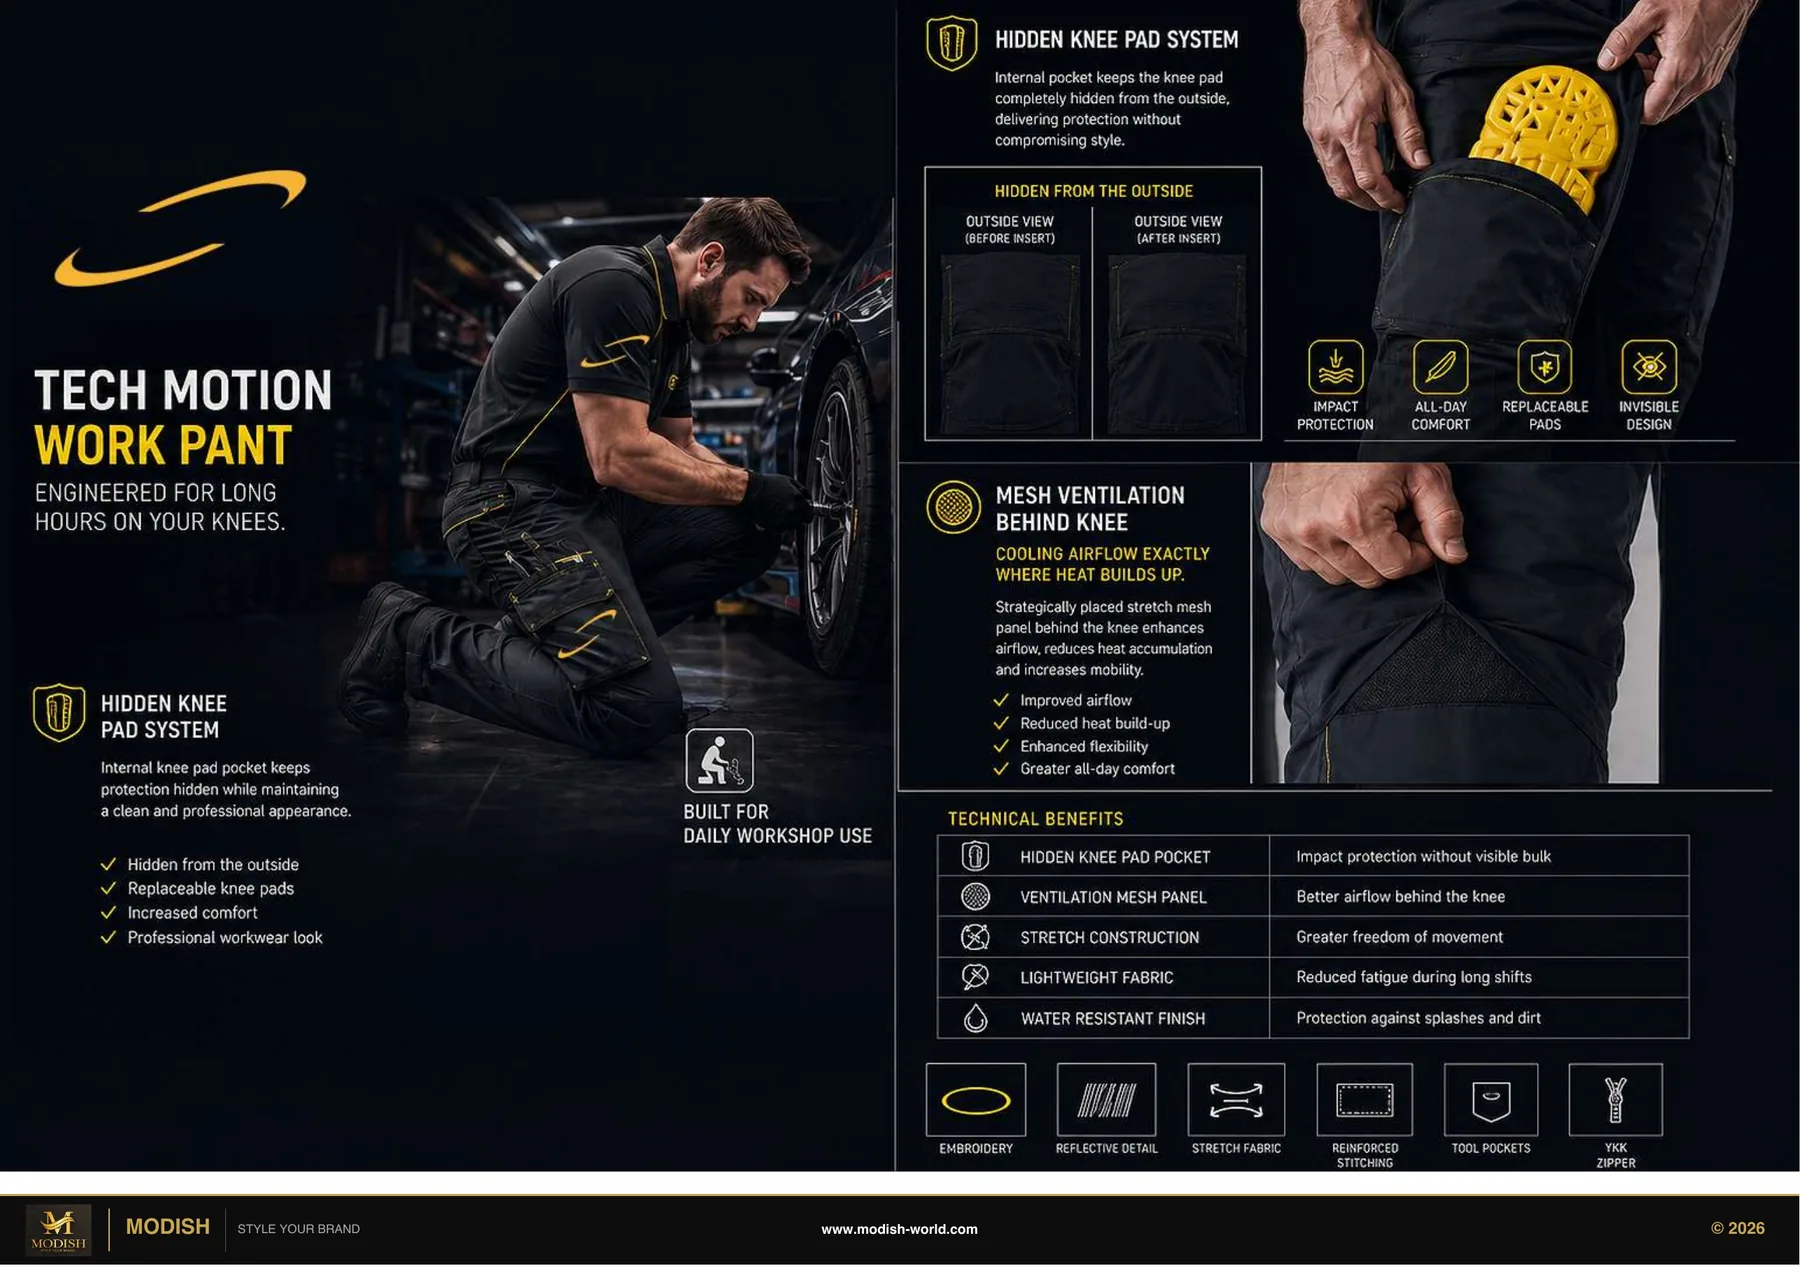
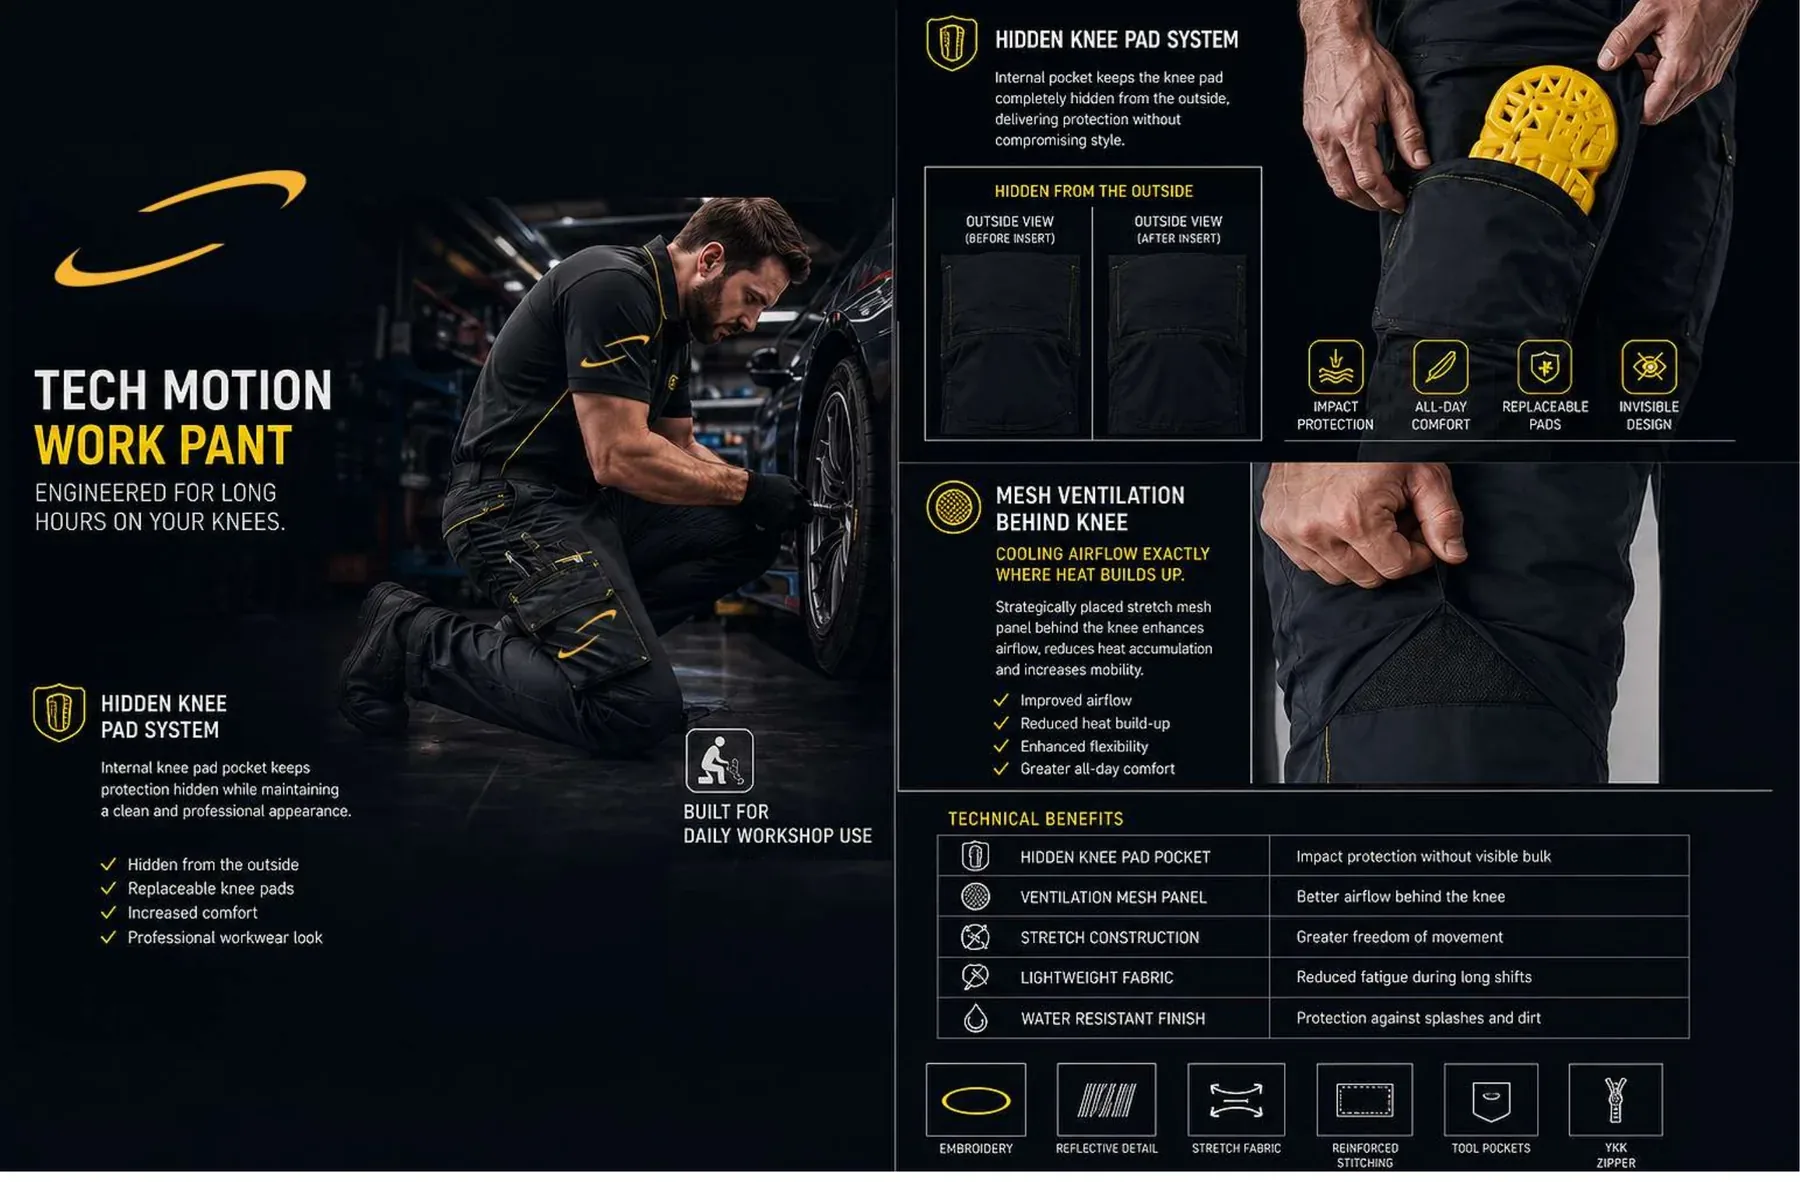
Trim catalogue branding footers

diff --git a/product/multi-pocket-tech-jacket.html b/product/multi-pocket-tech-jacket.html
@@ -120,15 +120,15 @@
           <p>以下图片保留画册中的原始方案信息，用于选款、细节确认和后续开发沟通。</p>
         </div>
         <div class="product-detail__gallery">            <figure class="product-detail__gallery-item">
-              <a href="../assets/modish/pages/page-04.webp" data-catalogue-lightbox aria-label="放大查看多口袋功能夹克画册原页">
-                <img src="../assets/modish/pages/page-04.webp" alt="多口袋功能工作夹克｜画册原页图" loading="lazy" />
+              <a href="../assets/modish/pages/page-04.webp?v=20260815-footer-trim-1" data-catalogue-lightbox aria-label="放大查看多口袋功能夹克画册原页">
+                <img src="../assets/modish/pages/page-04.webp?v=20260815-footer-trim-1" alt="多口袋功能工作夹克｜画册原页图" loading="lazy" />
                 <span class="product-detail__zoom-hint" aria-hidden="true">查看高清原页 <span>↗</span></span>
               </a>
               <figcaption>画册原页图 · 第 4、6 页 · 点击可放大</figcaption>
             </figure>
             <figure class="product-detail__gallery-item">
-              <a href="../assets/modish/pages/page-06.webp" data-catalogue-lightbox aria-label="放大查看多口袋功能夹克画册原页">
-                <img src="../assets/modish/pages/page-06.webp" alt="多口袋功能工作夹克｜画册原页图" loading="lazy" />
+              <a href="../assets/modish/pages/page-06.webp?v=20260815-footer-trim-1" data-catalogue-lightbox aria-label="放大查看多口袋功能夹克画册原页">
+                <img src="../assets/modish/pages/page-06.webp?v=20260815-footer-trim-1" alt="多口袋功能工作夹克｜画册原页图" loading="lazy" />
                 <span class="product-detail__zoom-hint" aria-hidden="true">查看高清原页 <span>↗</span></span>
               </a>
               <figcaption>画册原页图 · 第 4、6 页 · 点击可放大</figcaption>

diff --git a/product/convertible-performance-pant.html b/product/convertible-performance-pant.html
@@ -120,8 +120,8 @@
           <p>以下图片保留画册中的原始方案信息，用于选款、细节确认和后续开发沟通。</p>
         </div>
         <div class="product-detail__gallery">            <figure class="product-detail__gallery-item">
-              <a href="../assets/modish/pages/page-11.webp" data-catalogue-lightbox aria-label="放大查看可拆卸裤腿两用工作裤画册原页">
-                <img src="../assets/modish/pages/page-11.webp" alt="可拆卸裤腿两用工作裤｜画册原页图" loading="lazy" />
+              <a href="../assets/modish/pages/page-11.webp?v=20260815-footer-trim-1" data-catalogue-lightbox aria-label="放大查看可拆卸裤腿两用工作裤画册原页">
+                <img src="../assets/modish/pages/page-11.webp?v=20260815-footer-trim-1" alt="可拆卸裤腿两用工作裤｜画册原页图" loading="lazy" />
                 <span class="product-detail__zoom-hint" aria-hidden="true">查看高清原页 <span>↗</span></span>
               </a>
               <figcaption>画册原页图 · 第 11 页 · 点击可放大</figcaption>

diff --git a/product/performance-cap.html b/product/performance-cap.html
@@ -120,8 +120,8 @@
           <p>以下图片保留画册中的原始方案信息，用于选款、细节确认和后续开发沟通。</p>
         </div>
         <div class="product-detail__gallery">            <figure class="product-detail__gallery-item">
-              <a href="../assets/modish/pages/page-19.webp" data-catalogue-lightbox aria-label="放大查看可定制贴章透气工作帽画册原页">
-                <img src="../assets/modish/pages/page-19.webp" alt="可定制贴章透气工作帽｜画册原页图" loading="lazy" />
+              <a href="../assets/modish/pages/page-19.webp?v=20260815-footer-trim-1" data-catalogue-lightbox aria-label="放大查看可定制贴章透气工作帽画册原页">
+                <img src="../assets/modish/pages/page-19.webp?v=20260815-footer-trim-1" alt="可定制贴章透气工作帽｜画册原页图" loading="lazy" />
                 <span class="product-detail__zoom-hint" aria-hidden="true">查看高清原页 <span>↗</span></span>
               </a>
               <figcaption>画册原页图 · 第 19 页 · 点击可放大</figcaption>

diff --git a/product/winter-rainproof-coverall.html b/product/winter-rainproof-coverall.html
@@ -120,8 +120,8 @@
           <p>以下图片保留画册中的原始方案信息，用于选款、细节确认和后续开发沟通。</p>
         </div>
         <div class="product-detail__gallery">            <figure class="product-detail__gallery-item">
-              <a href="../assets/modish/pages/page-26.webp" data-catalogue-lightbox aria-label="放大查看冬季防雨保暖连体服画册原页">
-                <img src="../assets/modish/pages/page-26.webp" alt="冬季防雨保暖连体工作服｜画册原页图" loading="lazy" />
+              <a href="../assets/modish/pages/page-26.webp?v=20260815-footer-trim-1" data-catalogue-lightbox aria-label="放大查看冬季防雨保暖连体服画册原页">
+                <img src="../assets/modish/pages/page-26.webp?v=20260815-footer-trim-1" alt="冬季防雨保暖连体工作服｜画册原页图" loading="lazy" />
                 <span class="product-detail__zoom-hint" aria-hidden="true">查看高清原页 <span>↗</span></span>
               </a>
               <figcaption>画册原页图 · 第 26 页 · 点击可放大</figcaption>

diff --git a/product/tech-crew-utility-vest.html b/product/tech-crew-utility-vest.html
@@ -120,8 +120,8 @@
           <p>以下图片保留画册中的原始方案信息，用于选款、细节确认和后续开发沟通。</p>
         </div>
         <div class="product-detail__gallery">            <figure class="product-detail__gallery-item">
-              <a href="../assets/modish/pages/page-07.webp" data-catalogue-lightbox aria-label="放大查看技术团队多口袋背心画册原页">
-                <img src="../assets/modish/pages/page-07.webp" alt="轻量多口袋技术工作背心｜画册原页图" loading="lazy" />
+              <a href="../assets/modish/pages/page-07.webp?v=20260815-footer-trim-1" data-catalogue-lightbox aria-label="放大查看技术团队多口袋背心画册原页">
+                <img src="../assets/modish/pages/page-07.webp?v=20260815-footer-trim-1" alt="轻量多口袋技术工作背心｜画册原页图" loading="lazy" />
                 <span class="product-detail__zoom-hint" aria-hidden="true">查看高清原页 <span>↗</span></span>
               </a>
               <figcaption>画册原页图 · 第 7 页 · 点击可放大</figcaption>

diff --git a/product/bio-based-pcm-cooling-vest.html b/product/bio-based-pcm-cooling-vest.html
@@ -120,8 +120,8 @@
           <p>以下图片保留画册中的原始方案信息，用于选款、细节确认和后续开发沟通。</p>
         </div>
         <div class="product-detail__gallery">            <figure class="product-detail__gallery-item">
-              <a href="../assets/modish/pages/page-13.webp" data-catalogue-lightbox aria-label="放大查看生物基相变降温背心画册原页">
-                <img src="../assets/modish/pages/page-13.webp" alt="生物基相变降温背心｜画册原页图" loading="lazy" />
+              <a href="../assets/modish/pages/page-13.webp?v=20260815-footer-trim-1" data-catalogue-lightbox aria-label="放大查看生物基相变降温背心画册原页">
+                <img src="../assets/modish/pages/page-13.webp?v=20260815-footer-trim-1" alt="生物基相变降温背心｜画册原页图" loading="lazy" />
                 <span class="product-detail__zoom-hint" aria-hidden="true">查看高清原页 <span>↗</span></span>
               </a>
               <figcaption>画册原页图 · 第 13 页 · 点击可放大</figcaption>

diff --git a/product/formal-shirt.html b/product/formal-shirt.html
@@ -120,8 +120,8 @@
           <p>以下图片保留画册中的原始方案信息，用于选款、细节确认和后续开发沟通。</p>
         </div>
         <div class="product-detail__gallery">            <figure class="product-detail__gallery-item">
-              <a href="../assets/modish/pages/page-17.webp" data-catalogue-lightbox aria-label="放大查看企业定制长袖衬衫画册原页">
-                <img src="../assets/modish/pages/page-17.webp" alt="企业定制长袖商务衬衫｜画册原页图" loading="lazy" />
+              <a href="../assets/modish/pages/page-17.webp?v=20260815-footer-trim-1" data-catalogue-lightbox aria-label="放大查看企业定制长袖衬衫画册原页">
+                <img src="../assets/modish/pages/page-17.webp?v=20260815-footer-trim-1" alt="企业定制长袖商务衬衫｜画册原页图" loading="lazy" />
                 <span class="product-detail__zoom-hint" aria-hidden="true">查看高清原页 <span>↗</span></span>
               </a>
               <figcaption>画册原页图 · 第 17 页 · 点击可放大</figcaption>

diff --git a/product/performance-beanie.html b/product/performance-beanie.html
@@ -120,8 +120,8 @@
           <p>以下图片保留画册中的原始方案信息，用于选款、细节确认和后续开发沟通。</p>
         </div>
         <div class="product-detail__gallery">            <figure class="product-detail__gallery-item">
-              <a href="../assets/modish/pages/page-20.webp" data-catalogue-lightbox aria-label="放大查看抓绒内里保暖针织帽画册原页">
-                <img src="../assets/modish/pages/page-20.webp" alt="抓绒内里保暖针织帽｜画册原页图" loading="lazy" />
+              <a href="../assets/modish/pages/page-20.webp?v=20260815-footer-trim-1" data-catalogue-lightbox aria-label="放大查看抓绒内里保暖针织帽画册原页">
+                <img src="../assets/modish/pages/page-20.webp?v=20260815-footer-trim-1" alt="抓绒内里保暖针织帽｜画册原页图" loading="lazy" />
                 <span class="product-detail__zoom-hint" aria-hidden="true">查看高清原页 <span>↗</span></span>
               </a>
               <figcaption>画册原页图 · 第 20 页 · 点击可放大</figcaption>

diff --git a/product/tech-motion-work-pant.html b/product/tech-motion-work-pant.html
@@ -120,8 +120,8 @@
           <p>以下图片保留画册中的原始方案信息，用于选款、细节确认和后续开发沟通。</p>
         </div>
         <div class="product-detail__gallery">            <figure class="product-detail__gallery-item">
-              <a href="../assets/modish/pages/page-10.webp" data-catalogue-lightbox aria-label="放大查看隐藏护膝功能工作裤画册原页">
-                <img src="../assets/modish/pages/page-10.webp" alt="隐藏护膝功能工作裤｜画册原页图" loading="lazy" />
+              <a href="../assets/modish/pages/page-10.webp?v=20260815-footer-trim-1" data-catalogue-lightbox aria-label="放大查看隐藏护膝功能工作裤画册原页">
+                <img src="../assets/modish/pages/page-10.webp?v=20260815-footer-trim-1" alt="隐藏护膝功能工作裤｜画册原页图" loading="lazy" />
                 <span class="product-detail__zoom-hint" aria-hidden="true">查看高清原页 <span>↗</span></span>
               </a>
               <figcaption>画册原页图 · 第 10 页 · 点击可放大</figcaption>

diff --git a/product/tool-mug.html b/product/tool-mug.html
@@ -120,8 +120,8 @@
           <p>以下图片保留画册中的原始方案信息，用于选款、细节确认和后续开发沟通。</p>
         </div>
         <div class="product-detail__gallery">            <figure class="product-detail__gallery-item">
-              <a href="../assets/modish/pages/page-25.webp" data-catalogue-lightbox aria-label="放大查看组合工具创意马克杯画册原页">
-                <img src="../assets/modish/pages/page-25.webp" alt="组合工具创意马克杯｜画册原页图" loading="lazy" />
+              <a href="../assets/modish/pages/page-25.webp?v=20260815-footer-trim-1" data-catalogue-lightbox aria-label="放大查看组合工具创意马克杯画册原页">
+                <img src="../assets/modish/pages/page-25.webp?v=20260815-footer-trim-1" alt="组合工具创意马克杯｜画册原页图" loading="lazy" />
                 <span class="product-detail__zoom-hint" aria-hidden="true">查看高清原页 <span>↗</span></span>
               </a>
               <figcaption>画册原页图 · 第 25 页 · 点击可放大</figcaption>

diff --git a/product/utility-tech-shirt.html b/product/utility-tech-shirt.html
@@ -120,8 +120,8 @@
           <p>以下图片保留画册中的原始方案信息，用于选款、细节确认和后续开发沟通。</p>
         </div>
         <div class="product-detail__gallery">            <figure class="product-detail__gallery-item">
-              <a href="../assets/modish/pages/page-14.webp" data-catalogue-lightbox aria-label="放大查看轻量透气功能工作衫画册原页">
-                <img src="../assets/modish/pages/page-14.webp" alt="轻量透气功能工作衫｜画册原页图" loading="lazy" />
+              <a href="../assets/modish/pages/page-14.webp?v=20260815-footer-trim-1" data-catalogue-lightbox aria-label="放大查看轻量透气功能工作衫画册原页">
+                <img src="../assets/modish/pages/page-14.webp?v=20260815-footer-trim-1" alt="轻量透气功能工作衫｜画册原页图" loading="lazy" />
                 <span class="product-detail__zoom-hint" aria-hidden="true">查看高清原页 <span>↗</span></span>
               </a>
               <figcaption>画册原页图 · 第 14 页 · 点击可放大</figcaption>

diff --git a/product/utility-tech-vest.html b/product/utility-tech-vest.html
@@ -120,8 +120,8 @@
           <p>以下图片保留画册中的原始方案信息，用于选款、细节确认和后续开发沟通。</p>
         </div>
         <div class="product-detail__gallery">            <figure class="product-detail__gallery-item">
-              <a href="../assets/modish/pages/page-15.webp" data-catalogue-lightbox aria-label="放大查看透气多口袋功能背心画册原页">
-                <img src="../assets/modish/pages/page-15.webp" alt="透气多口袋功能背心｜画册原页图" loading="lazy" />
+              <a href="../assets/modish/pages/page-15.webp?v=20260815-footer-trim-1" data-catalogue-lightbox aria-label="放大查看透气多口袋功能背心画册原页">
+                <img src="../assets/modish/pages/page-15.webp?v=20260815-footer-trim-1" alt="透气多口袋功能背心｜画册原页图" loading="lazy" />
                 <span class="product-detail__zoom-hint" aria-hidden="true">查看高清原页 <span>↗</span></span>
               </a>
               <figcaption>画册原页图 · 第 15 页 · 点击可放大</figcaption>
